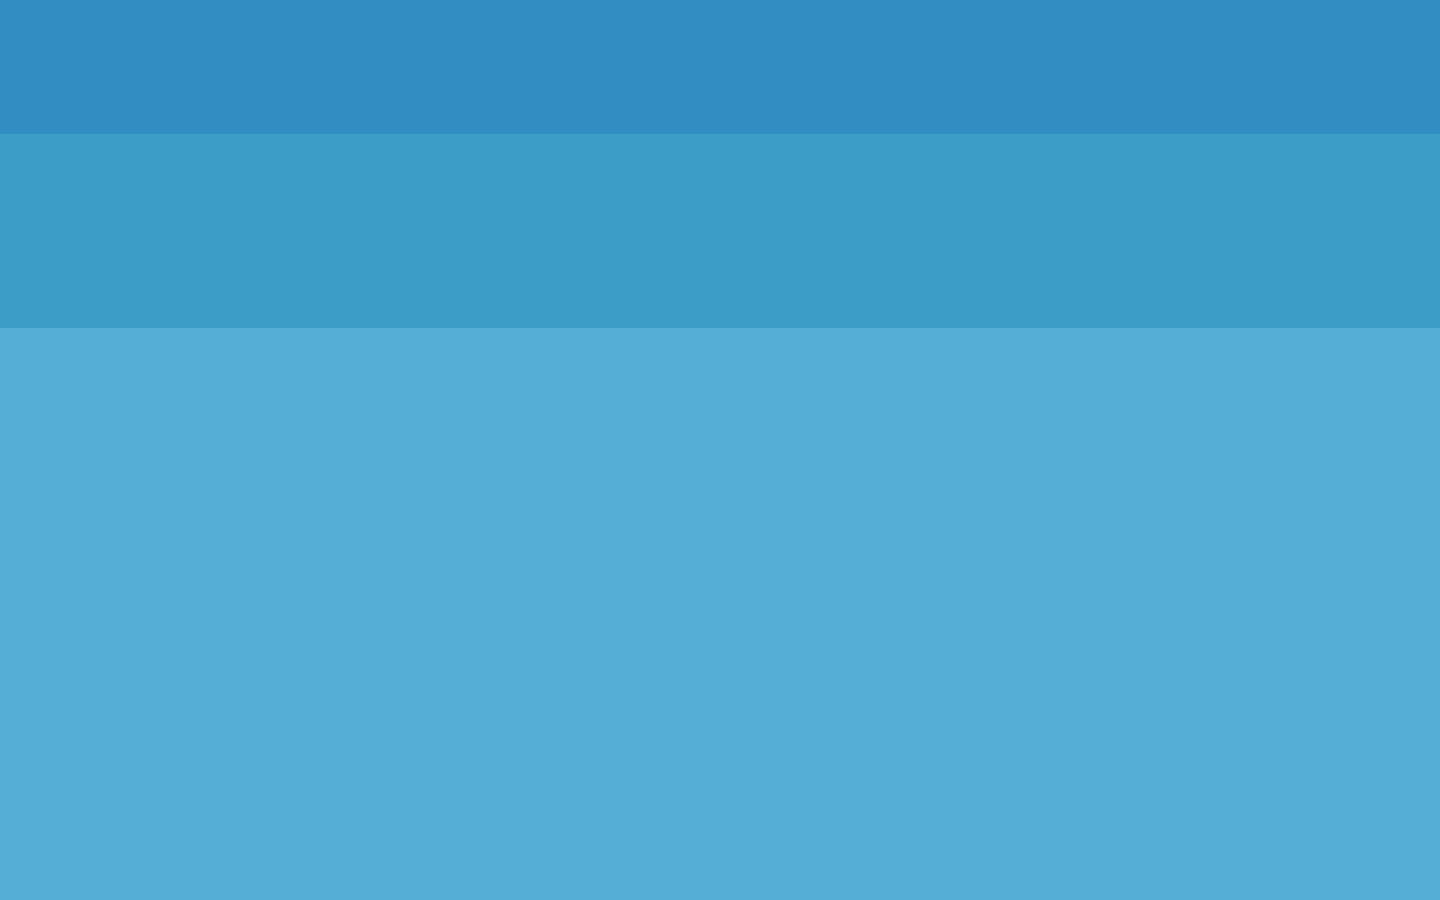
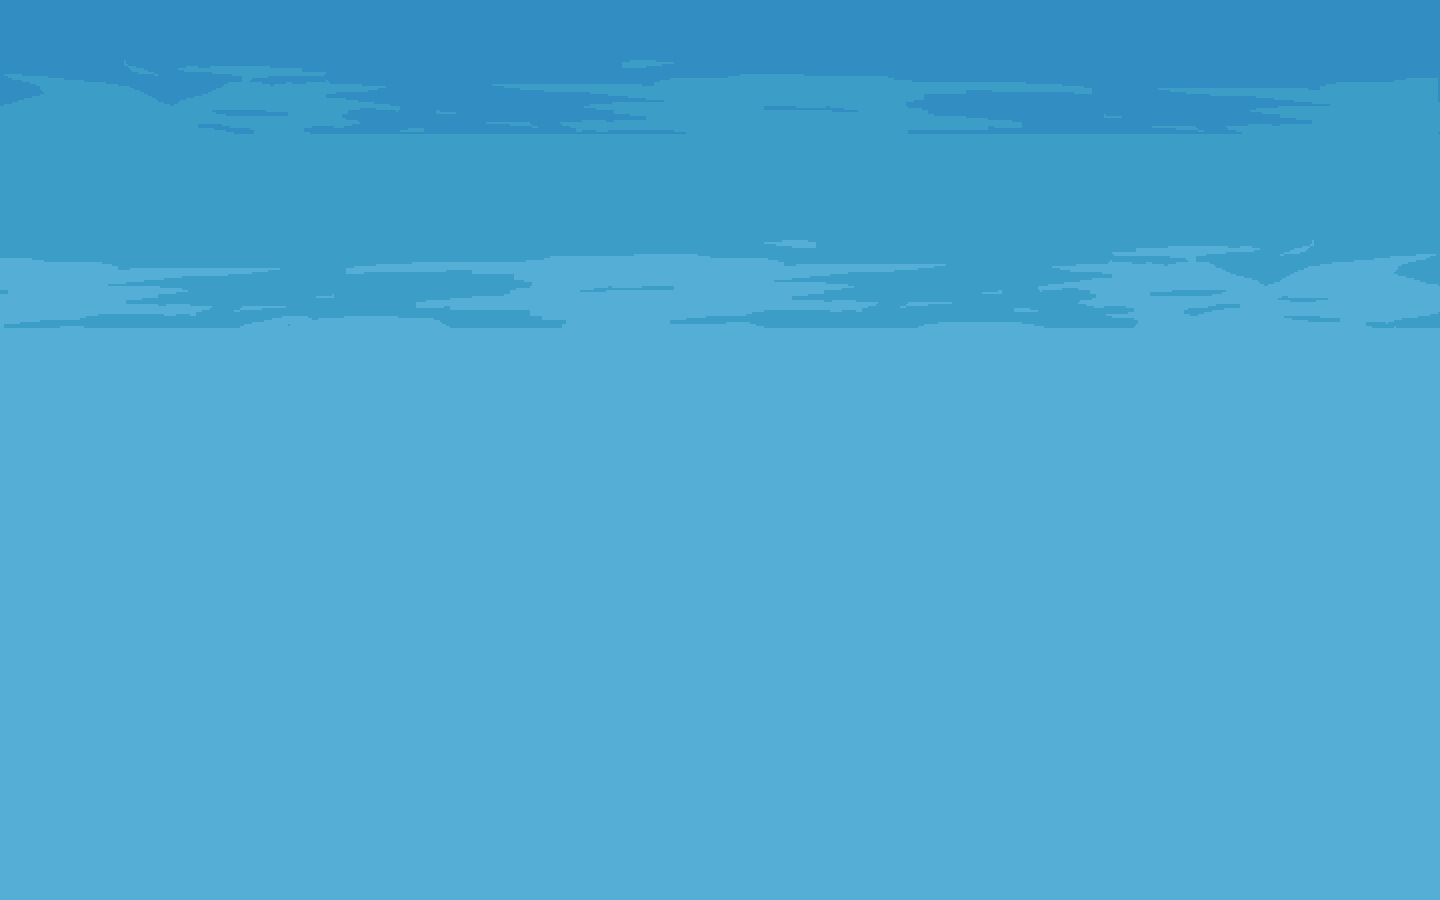
Background finaly

Changed region(s): [[0.0, 0.2489, 0.6562, 0.3733], [0.7188, 0.2489, 1.0, 0.3733], [0.6562, 0.3422, 0.7188, 0.3733]]

diff --git a/Classes/MainScene.cpp b/Classes/MainScene.cpp
@@ -33,6 +33,14 @@ bool MainScene::init() {
     const auto visibleSize = Director::getInstance()->getVisibleSize();
     const Vec2 origin = Director::getInstance()->getVisibleOrigin();
 
+    _background = Sprite::create("images/Sky1.png");
+    _background1 = Sprite::create("images/Sky2.png");
+    _background2 = Sprite::create("images/Mounts1.png");
+    _background3 = Sprite::create("images/Mounts2.png");
+    addChild(_background);
+    addChild(_background1);
+    addChild(_background2);
+    addChild(_background3);
     //DrawNode* background = DrawNode::create();
     //background->drawSolidRect(origin-backSize, Director::getInstance()->getVisibleSize() + Size(backSize), Color4F(1, 1, 1, 1));
     //addChild(background);
@@ -67,7 +75,6 @@ bool MainScene::init() {
     _firstTileMap->addLayer("ObjectLayer", "ObjectLayer");
     _firstTileMap->CollidableLayerInit(_world, _firstTileMap->getLayerByName("Collidable"));
     _firstTileMap->TileMapObjectLayerInit(_world);
-
     //_firstTileMap->TileMapBackgroundLayerInit(smth, _firstTileMap->getLayerByName("FG"));
 
     //Creating player
@@ -142,6 +149,10 @@ void MainScene::update(float dt) {
         const auto playerHp = _player->getHp();
         _hud->setHp(playerHp);
         const auto cameraPos = _player->getPosition();
+        _background->setPosition(cameraPos);
+        _background1->setPosition(cameraPos);
+        _background2->setPosition(cameraPos);
+        _background3->setPosition(cameraPos);
         _cameraTarget->setPosition(cameraPos);
     }
 

diff --git a/Classes/MainScene.h b/Classes/MainScene.h
@@ -40,6 +40,9 @@ private:
     b2WorldNode* _world;
     cocos2d::Camera* _cameraTarget;
     cocos2d::Sprite* _background;
+    cocos2d::Sprite* _background1;
+    cocos2d::Sprite* _background2;
+    cocos2d::Sprite* _background3;
     HUD* _hud;
     cocos2d::DrawNode* _test;
     RayCastManager* _rayCastManager;
